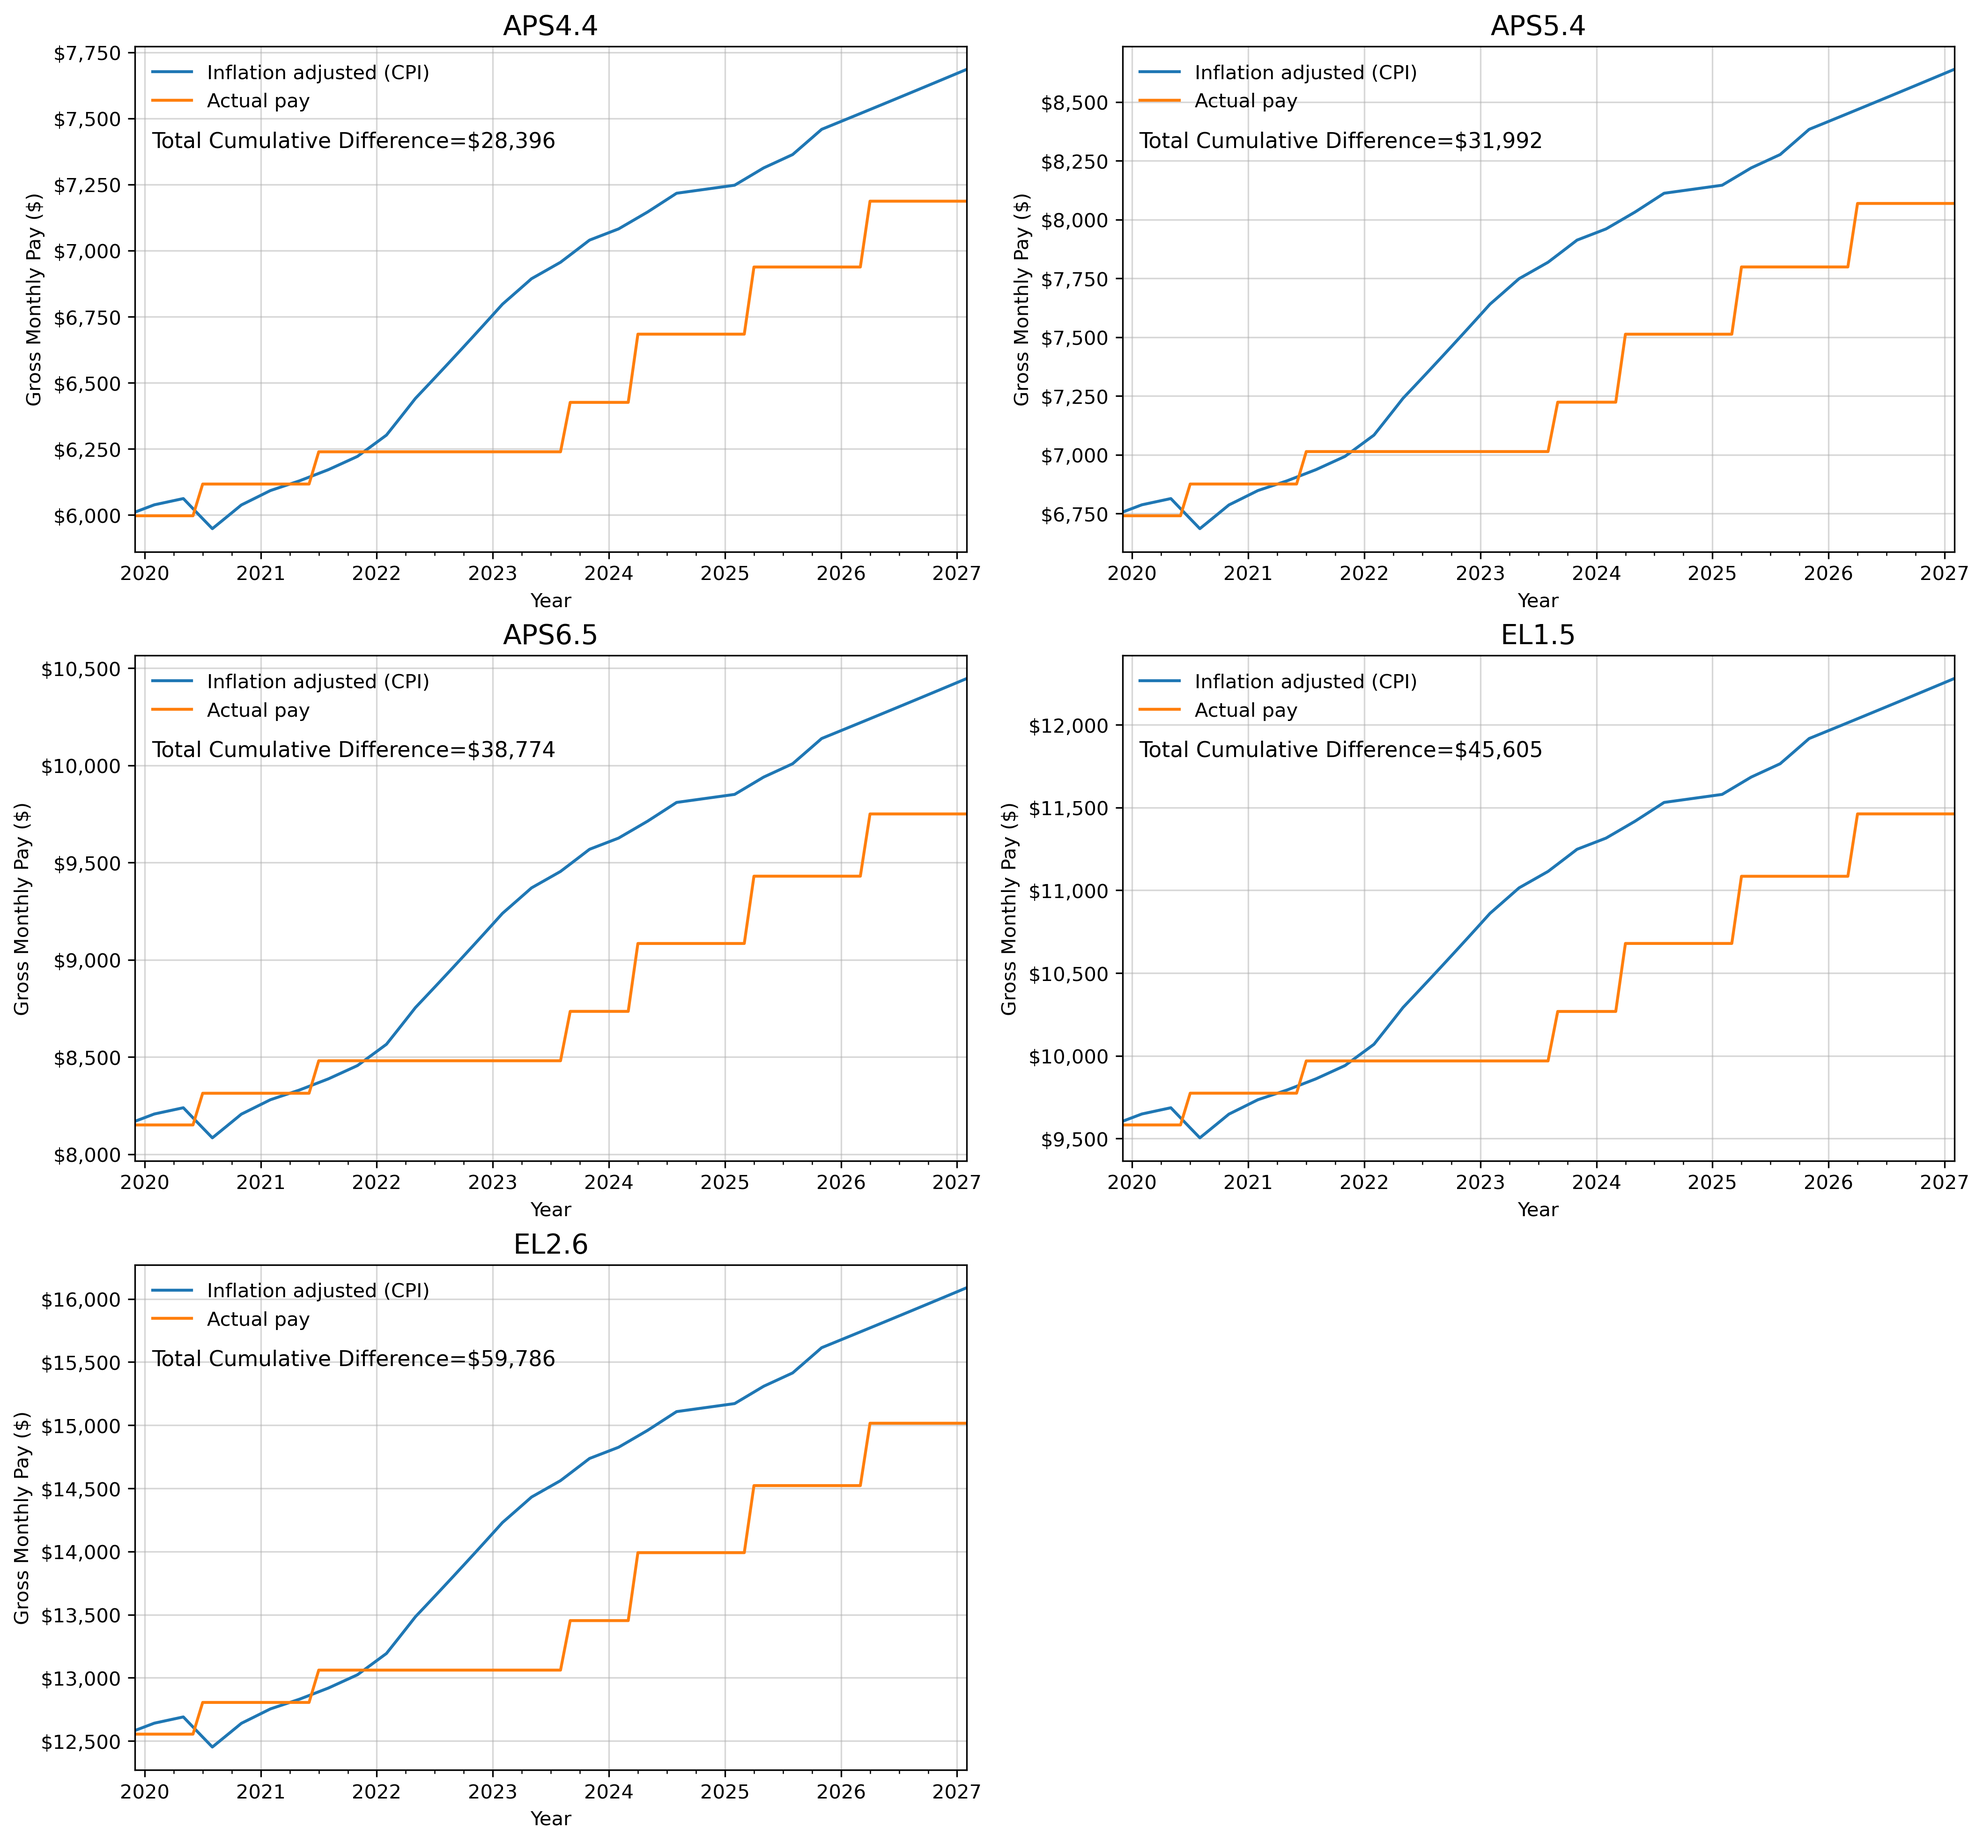
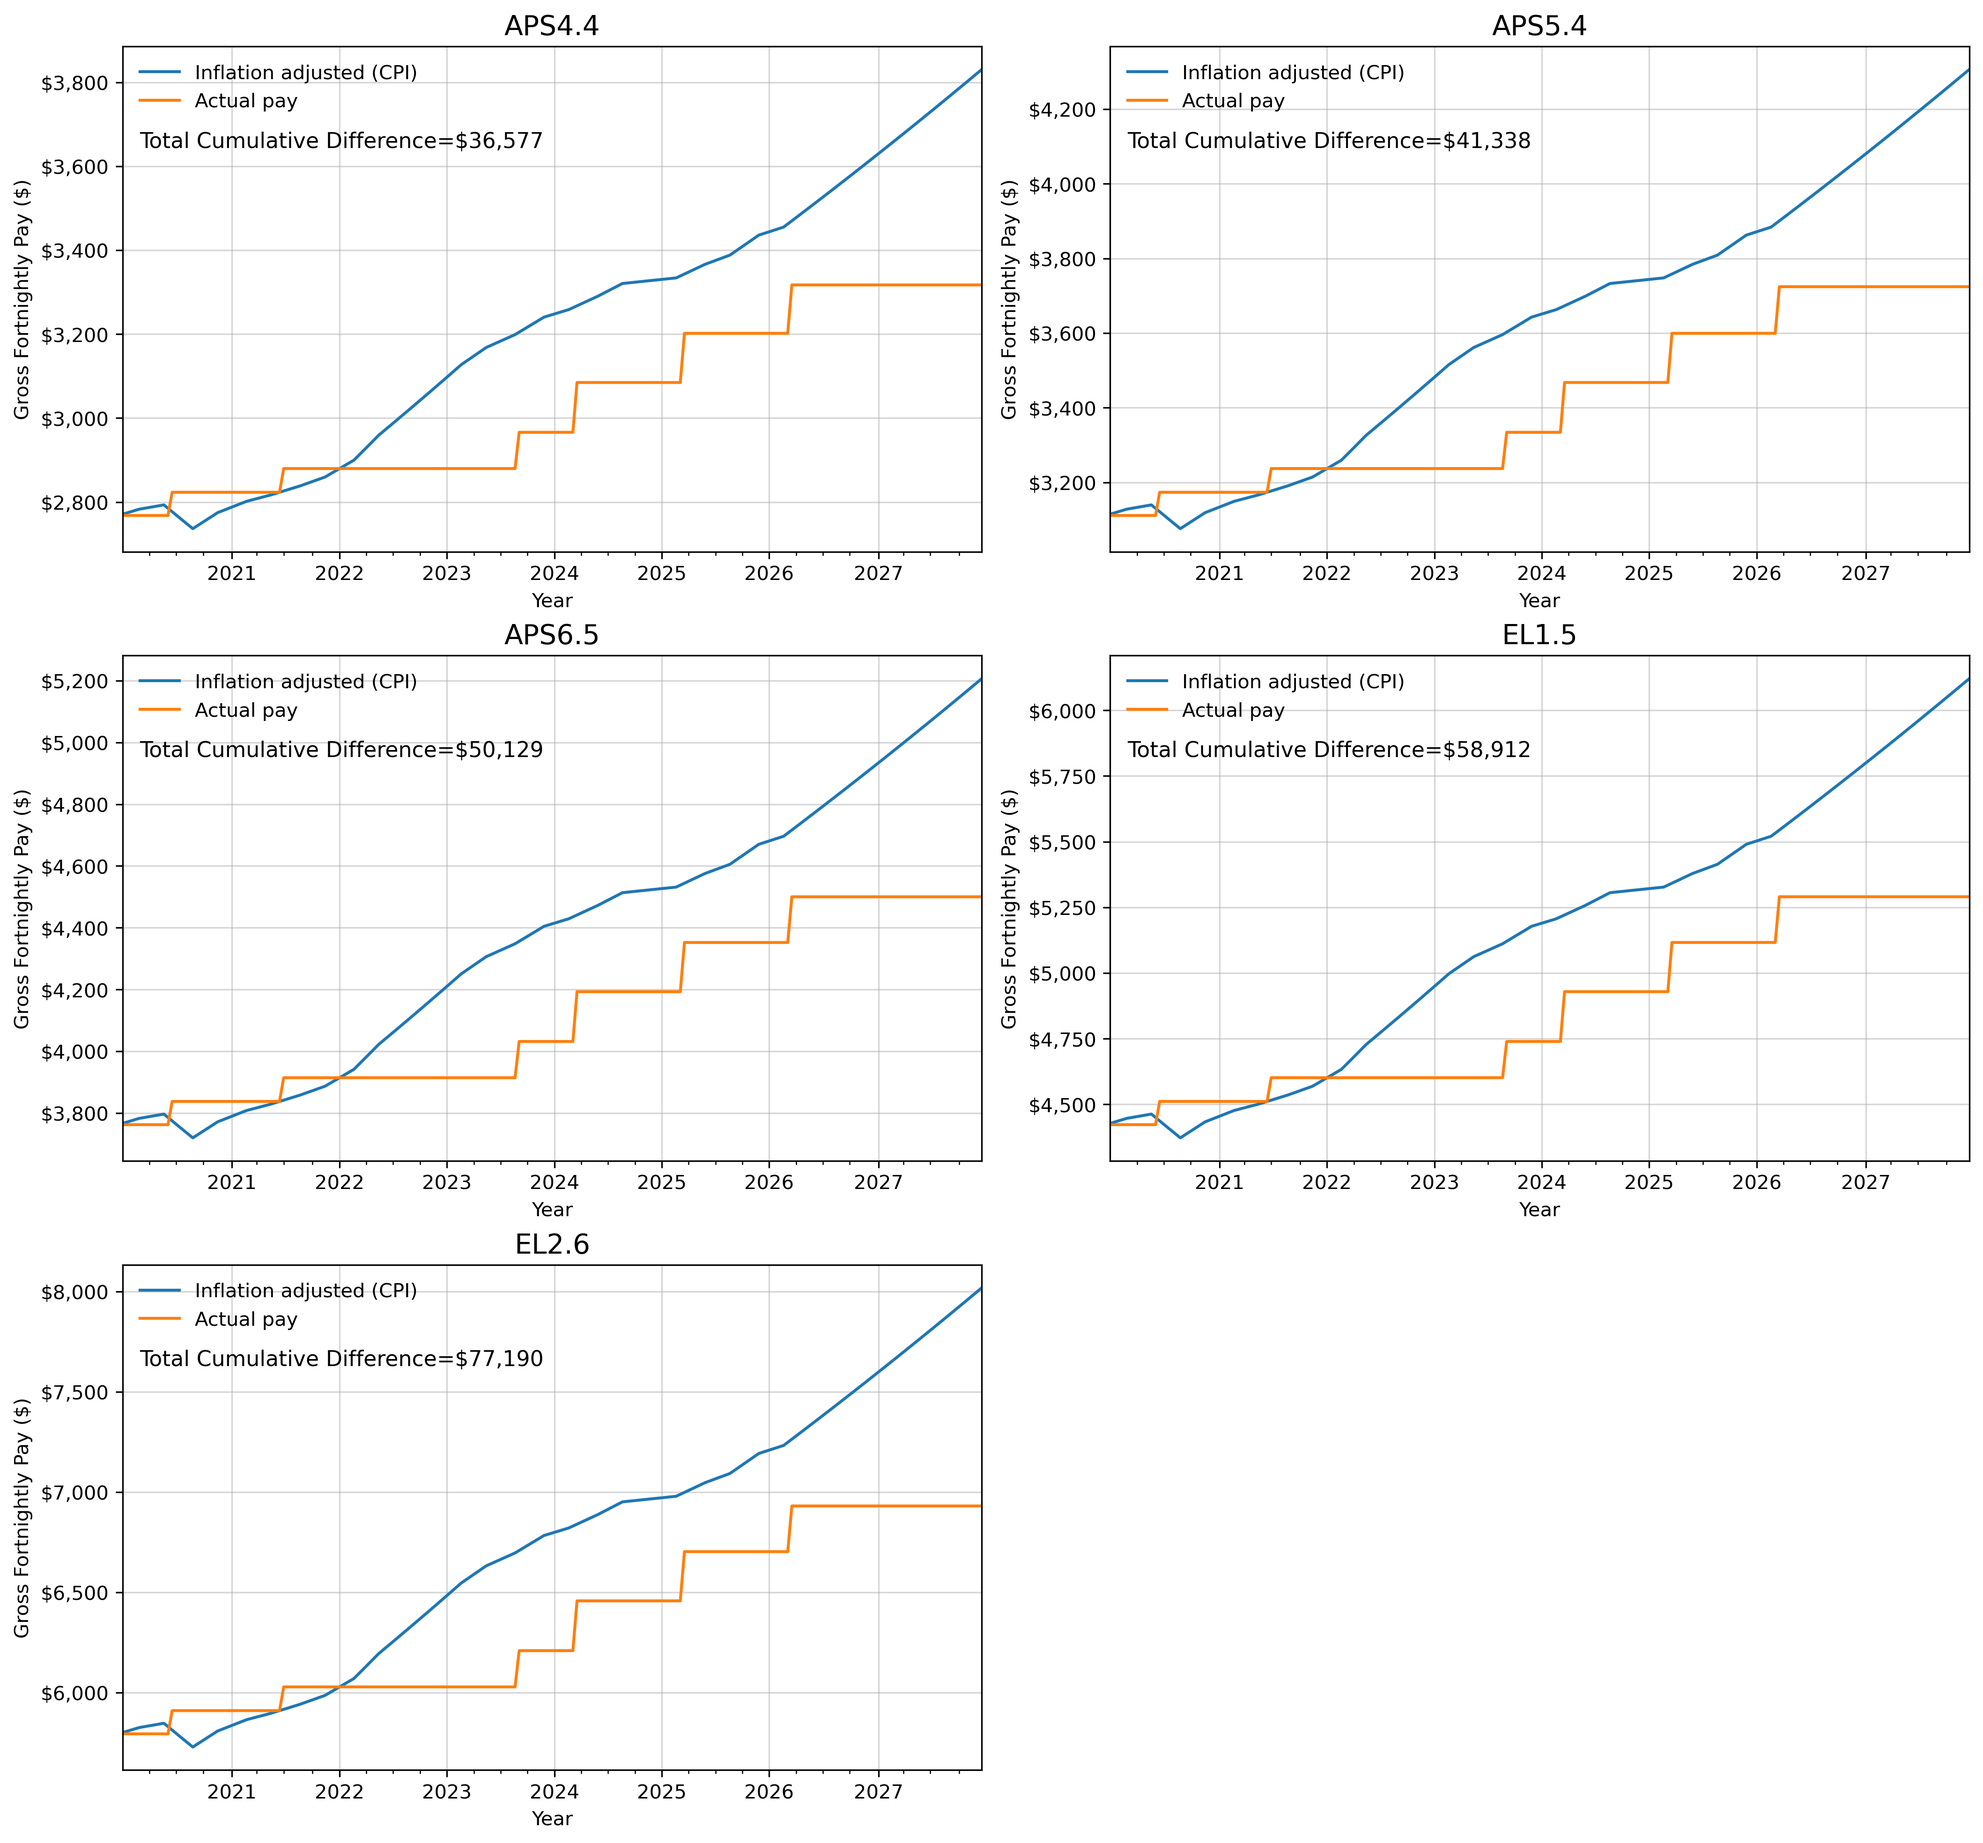
convert from monthly analysis to fortnightly

diff --git a/Inflation_plots.py b/Inflation_plots.py
@@ -8,7 +8,7 @@ import matplotlib.dates as mdates
 pay_classes = ["APS4.4", "APS5.4", "APS6.5", "EL1.5", "EL2.6"]
 df = pd.read_excel('inflation_tables.xlsx', index_col='Pay Date')
 df.index = pd.to_datetime(df.index)
-index_dict = {'SLCI': 'Monthly SLCI', 'CPI': 'Monthly CPI'}
+index_dict = {'SLCI': 'Fortnightly SLCI', 'CPI': 'Fortnightly CPI'}
 
 
 # Process CPI and SLCI
@@ -19,17 +19,17 @@ for inflation_index in index_dict.keys():
     for pay_level in pay_classes:
 
         # Starting value
-        start_value = df[f"{pay_level} Monthly Pay"].iloc[0]
+        start_value = df[f"{pay_level} Fortnightly Pay"].iloc[0]
 
         # the values to multiply pay by (1.XXXX)
         multiplier = 1 + df[index_dict[inflation_index]] / 100
 
         # Calculate compounded column
-        df[f"{pay_level} Monthly Pay with " + inflation_index] = start_value * multiplier.cumprod()
+        df[f"{pay_level} Fortnightly Pay with " + inflation_index] = start_value * multiplier.cumprod()
 
         # difference between inflation adjusted and actual pay
         df[f"{pay_level} Difference"] = (
-            df[f"{pay_level} Monthly Pay with " + inflation_index] - df[f"{pay_level} Monthly Pay"]
+            df[f"{pay_level} Fortnightly Pay with " + inflation_index] - df[f"{pay_level} Fortnightly Pay"]
         )
 
         #cumulative difference
@@ -45,10 +45,10 @@ for inflation_index in index_dict.keys():
         a.set_xlim(xmin, xmax)
 
     for pay_level, ax in zip(pay_classes, axes.ravel()):
-        df[f"{pay_level} Monthly Pay with " + inflation_index].plot(
+        df[f"{pay_level} Fortnightly Pay with " + inflation_index].plot(
             ax=ax, label=f"Inflation adjusted ({inflation_index})"
         )
-        df[f"{pay_level} Monthly Pay"].plot(
+        df[f"{pay_level} Fortnightly Pay"].plot(
             ax=ax, label="Actual pay"
         )
 
@@ -58,7 +58,7 @@ for inflation_index in index_dict.keys():
         ax.set_xlabel('Year')
 
         ax.yaxis.set_major_formatter(mtick.StrMethodFormatter('${x:,.0f}'))
-        ax.set_ylabel('Gross Monthly Pay ($)')
+        ax.set_ylabel('Gross Fortnightly Pay ($)')
         ax.grid(alpha=0.5)
         ax.set_title(pay_level, fontsize=14)
 
